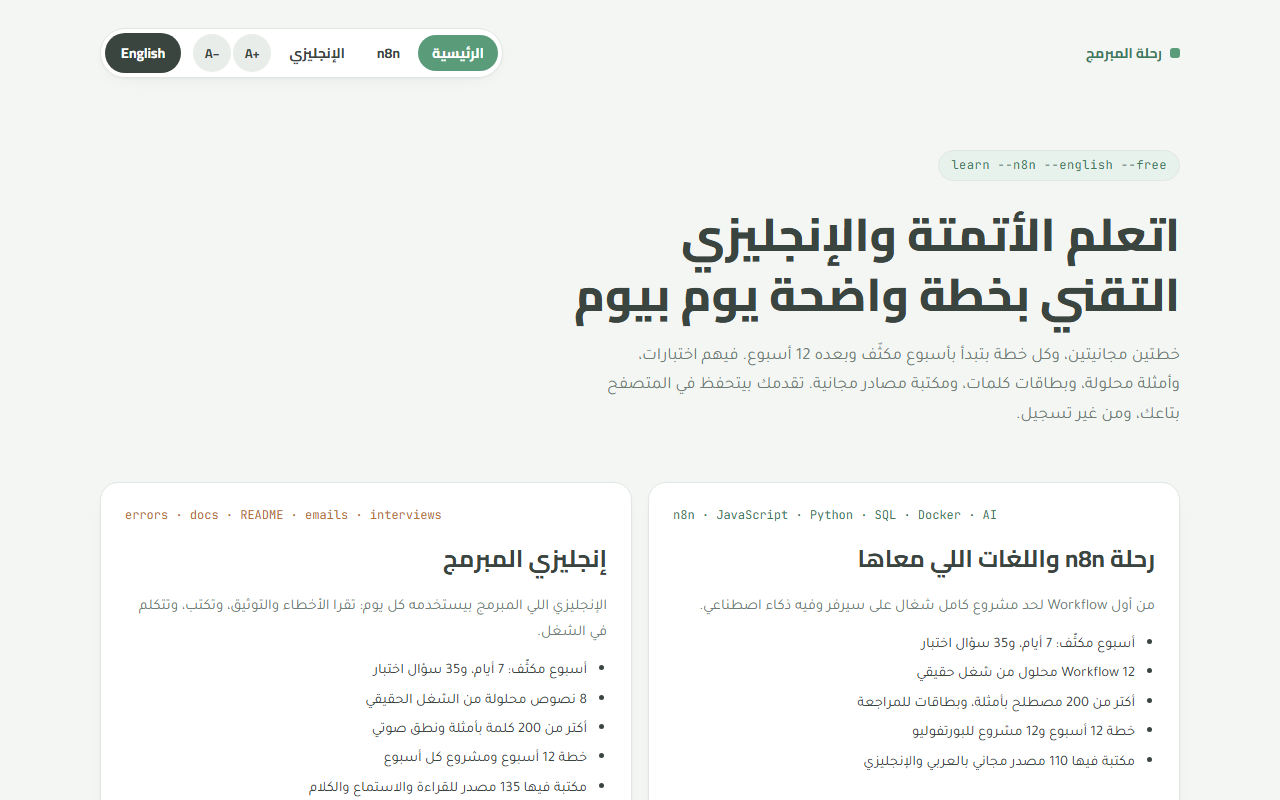
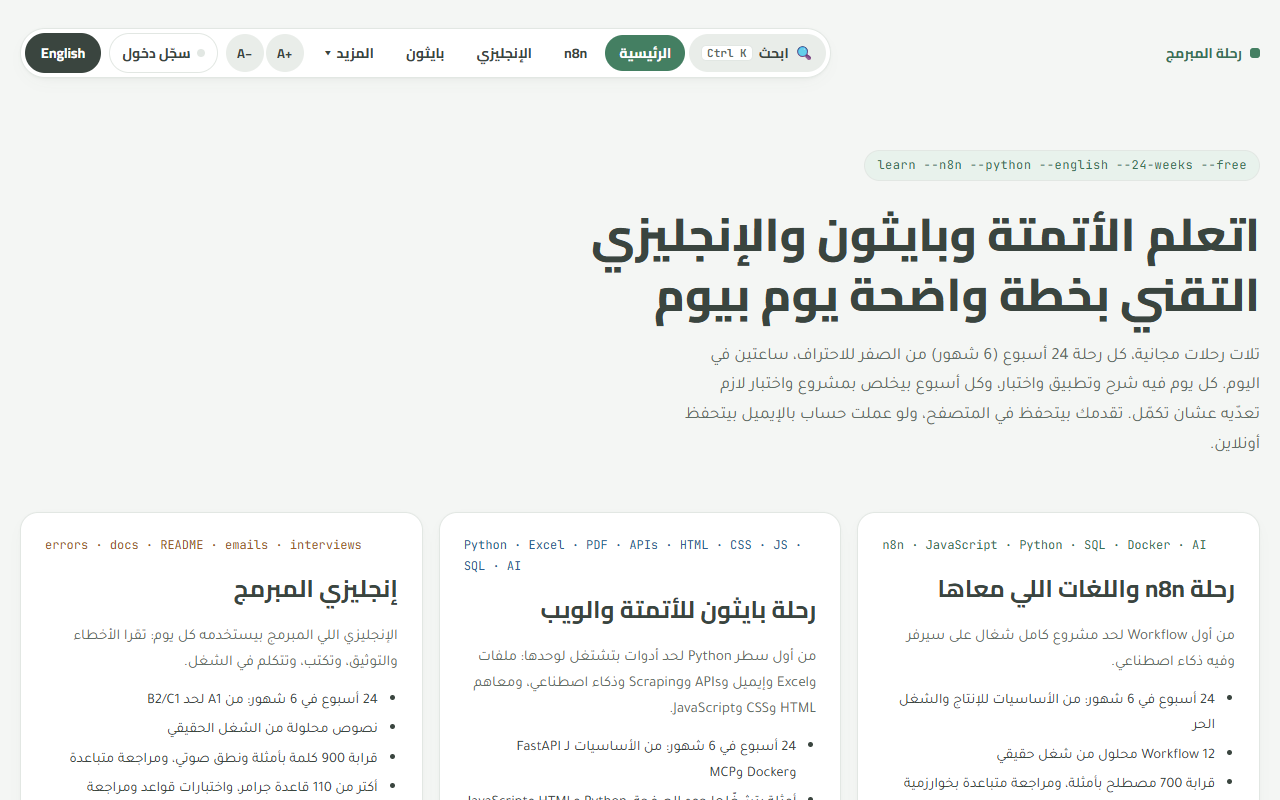
Developer Journey card: three journeys, now with Python; new screenshot

diff --git a/README.md b/README.md
@@ -37,8 +37,8 @@ I build **free, bilingual web tools** that run entirely in the browser — no si
     <td width="50%" valign="top">
       <a href="https://micro4tricks-ai.github.io/learn-n8n-english/"><img src="assets/learn-n8n-english.png" alt="Developer Journey screenshot"></a>
       <h3><img src="https://raw.githubusercontent.com/micro4tricks-ai/learn-n8n-english/main/assets/logo.svg" width="28" height="28" align="absmiddle" alt=""> <a href="https://github.com/micro4tricks-ai/learn-n8n-english">Developer Journey · رحلة المبرمج</a></h3>
-      <p>Two learning plans in one site: <b>n8n automation</b> with JavaScript, Python, SQL, Docker and AI, and <b>technical English</b> for developers. Each starts with a 7-day intensive week, then a 12-week plan, with quizzes, flashcards, 880+ English words with audio, 117 grammar rules and a library of 150+ free sources.</p>
-      <p dir="rtl">خطتان: أتمتة n8n واللغات المرتبطة بها، والإنجليزية التقنية للمبرمجين.</p>
+      <p>Three free 24-week journeys in one site: <b>n8n automation</b> with JavaScript, SQL, Docker and AI; <b>Python for automation and the web</b> (files, Excel, APIs, scraping, HTML/CSS/JS, FastAPI, LLMs and MCP) with code you run right on the page; and <b>technical English</b> for developers. Daily lessons, weekly tests, monthly exams, spaced review, a lab and a library of 700+ free sources.</p>
+      <p dir="rtl">ثلاث رحلات: أتمتة n8n، وبايثون للأتمتة والويب، والإنجليزية التقنية للمبرمجين.</p>
       <p><a href="https://micro4tricks-ai.github.io/learn-n8n-english/"><b>Start learning →</b></a></p>
     </td>
   </tr>
@@ -47,7 +47,7 @@ I build **free, bilingual web tools** that run entirely in the browser — no si
       <h3>✨ What they share</h3>
       <ul>
         <li>🌐 <b>Arabic ⇄ English</b> with full RTL / LTR layout</li>
-        <li>🔒 <b>Private by default</b> — progress stays in your browser</li>
+        <li>🔒 <b>Private by default</b> — progress stays in your browser (optional sign-in to sync)</li>
         <li>⚡ <b>No build step</b> — plain HTML, CSS and JavaScript</li>
         <li>📱 <b>Mobile first</b> — works on phones, tablets and desktops</li>
         <li>💸 <b>Free</b> — hosted on GitHub Pages, no paywalls</li>
